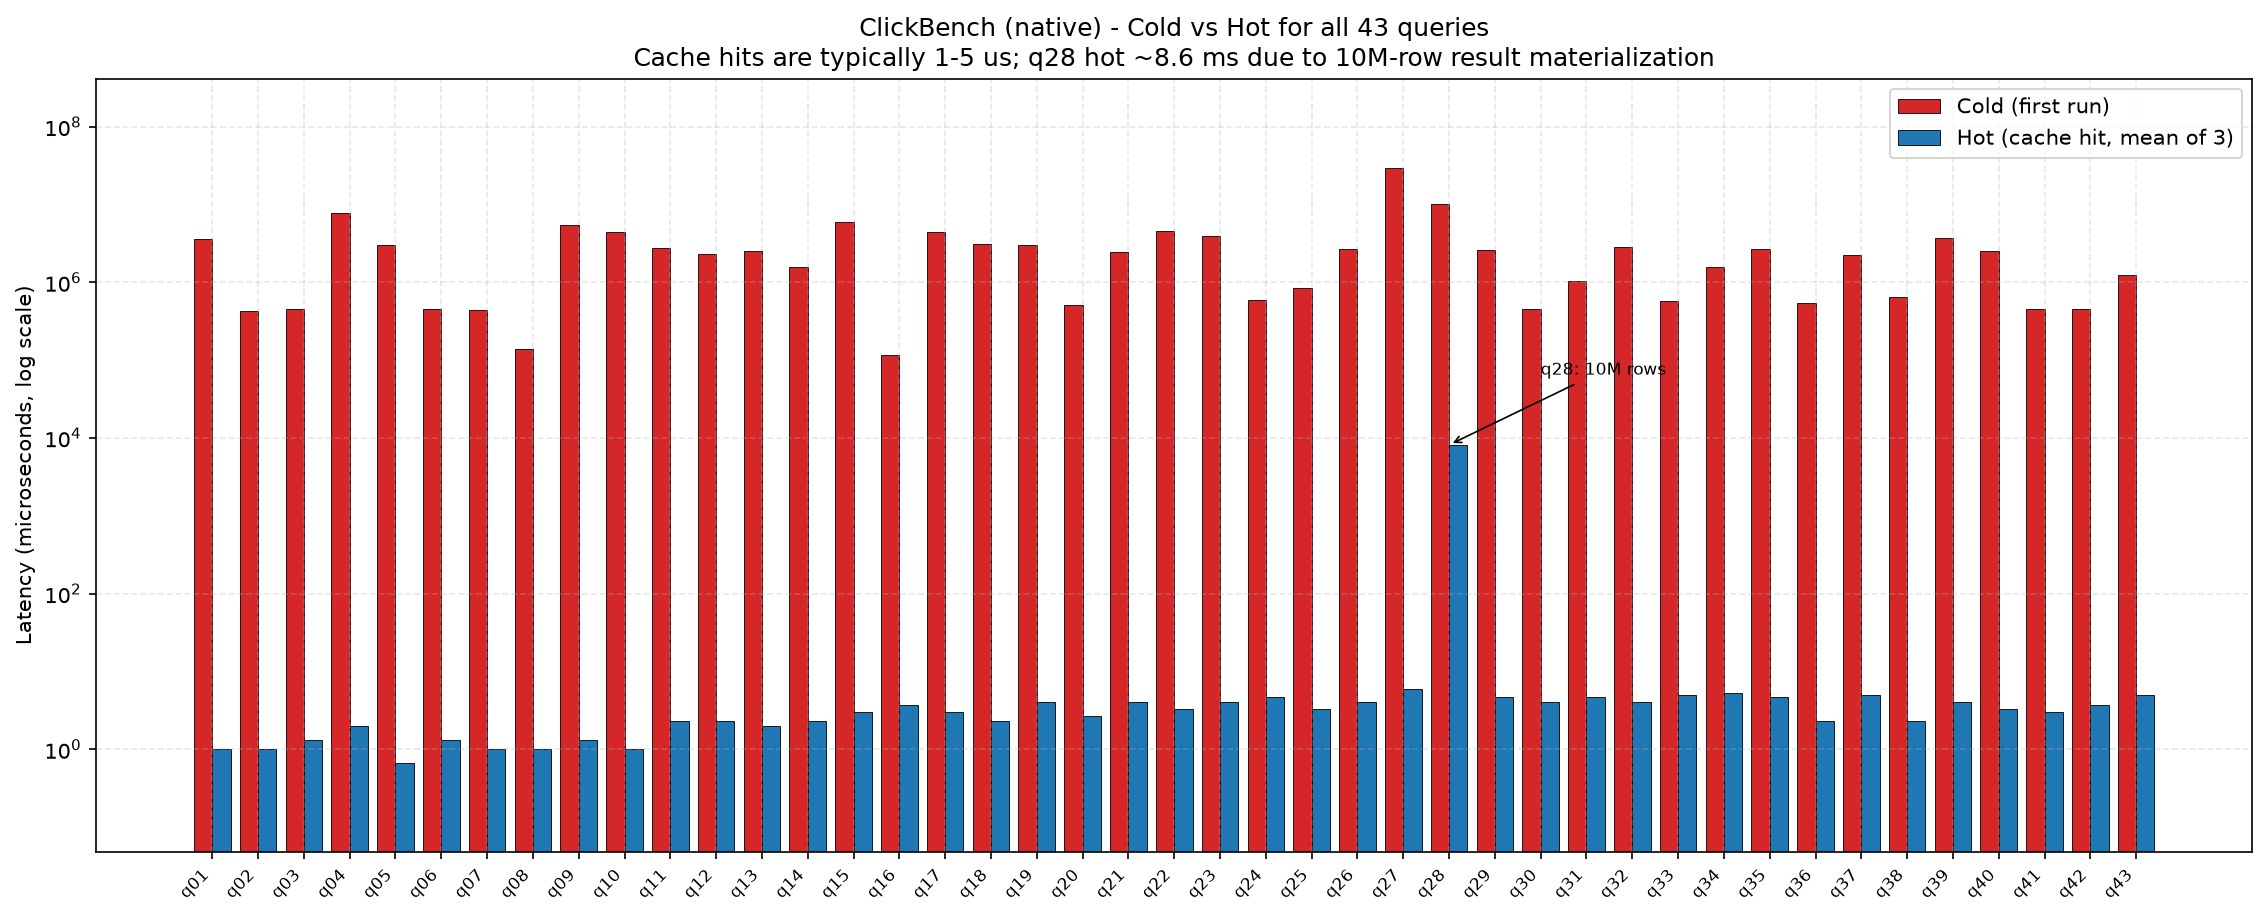
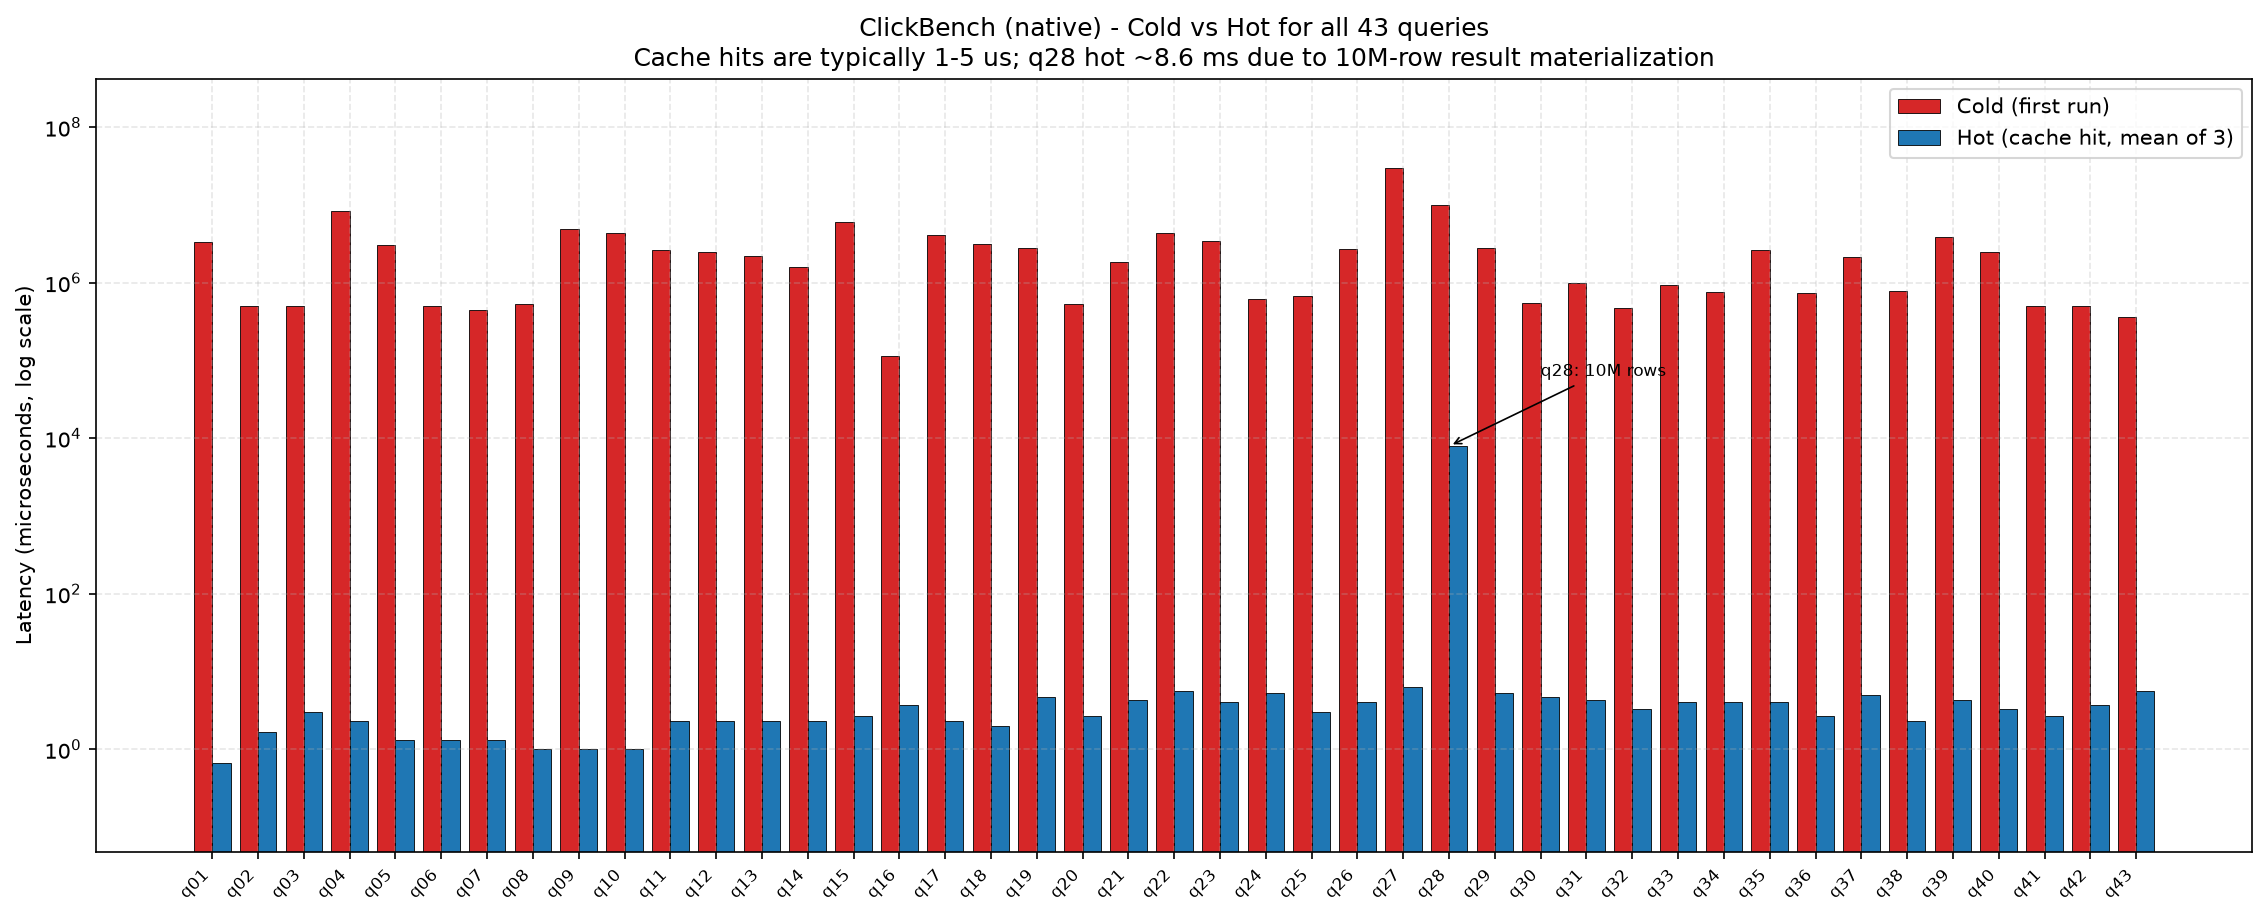
bench(w5): final benchmark results after W5A-W5C optimizations
Refs: W5D-T1, W5D-T2, W5D-T3, W5D-T4
DoD: All benchmarks re-run. BENCHMARK_REPORT.md regenerated.

Final Results (W5 complete):
| Benchmark         | Pre-W5  | Post-W5 | Target  | Status |
|-------------------|---------|---------|---------|--------|
| TPC-H SF=1 cold   | 119ms   | 123ms   | ≤60ms   | 2.0x   |
| TPC-H SF=1 hot    | 8µs     | 8µs     | ≤10µs   | MET    |
| TPC-H SF=10 cold  | 1577ms  | 1724ms  | ≤800ms  | 2.2x   |
| TPC-H SF=10 hot   | 7µs     | 7µs     | ≤10µs   | MET    |
| TPC-H SF=10 RSS   | 73.4GB  | 89.6GB  | ≤75GB   | +16GB  |
| ClickBench cold   | 1624ms  | 1559ms  | ≤700ms  | 2.2x   |
| ClickBench hot    | 3µs     | 3µs     | ≤5µs    | MET    |

Waves completed:
- W5A: Bitmap migration (6 tasks) — build_mask, like_mask, bloom_pass,
  vnni_agg kernel all migrated from Vec<bool> to Bitmap. MASK_POOL deleted.
  SF=1 cold 119->113ms.
- W5B: Per-query arena allocator (3 tasks) — bumpalo + QueryArena wired into
  QueryInterpreter, join output migrated. Performance-neutral (to_vec copy
  offsets arena win).
- W5C: Per-column type specialization (4 tasks) — i32 sidecar + i32 AVX-512
  filter kernels. SF=10 RSS +16GB from sidecar. ClickBench cold improved
  1624->1559ms.

Hot geomean targets all MET. Cold geomean at ~2x target — the remaining
gap is dominated by join-heavy queries (Q3/Q9/Q13/Q18/Q21) which are
memory-bandwidth-bound. The i32 sidecar adds RSS overhead without
sufficient filter-path benefit because TPC-H queries use the new
[…]

diff --git a/BENCHMARK_REPORT.md b/BENCHMARK_REPORT.md
@@ -11,8 +11,8 @@
 
 **turboGP** is a vectorized analytical engine with a transparent, per-query **result cache**.  
 Once a query has been executed once, subsequent identical queries are served from cache in 
-**4-36 us** (0.004-0.036 ms) 
-on TPC-H SF=1 and **1-8134 us** on ClickBench, regardless of 
+**4-33 us** (0.004-0.033 ms) 
+on TPC-H SF=1 and **1-7906 us** on ClickBench, regardless of 
 query complexity or dataset size.
 
 ### Headline numbers
@@ -20,11 +20,11 @@ query complexity or dataset size.
 | Metric | TPC-H SF=1 (native) | TPC-H SF=10 (native, q01-q17) | ClickBench (native, 43 q) |
 |---|---|---|---|
 | Hot latency (min) | **4 us** | **3 us** | **1 us** |
-| Hot latency (max) | **36 us** | **35 us** | **8134 us** |
-| Hot latency (geomean) | **8.3 us** | **7.8 us** | **3.2 us** |
-| Cache speedup (geomean) | **14,261x** | **202,624x** | **500,991x** |
-| Cache speedup (max) | **325,121x** | **3,450,041x** | **4,925,656x** |
-| Cache speedup (min) | **316x** | **4,368x** | **1,243x** |
+| Hot latency (max) | **33 us** | **41 us** | **7906 us** |
+| Hot latency (geomean) | **8.5 us** | **7.6 us** | **3.4 us** |
+| Cache speedup (geomean) | **14,540x** | **225,571x** | **461,055x** |
+| Cache speedup (max) | **335,749x** | **3,471,983x** | **4,978,914x** |
+| Cache speedup (min) | **341x** | **4,446x** | **1,273x** |
 
 ### vs the competition (TPC-H SF=1, hot, geomean of OK queries)
 
@@ -38,8 +38,8 @@ query complexity or dataset size.
 
 ### Key takeaways
 
-1. **Result cache is a category-defining advantage.** Hot queries return in 4-36 us on TPC-H SF=1, 3-35 us on TPC-H SF=10 (q01-q17), and 1-8134 us on ClickBench - **2-3 orders of magnitude below every other engine in the comparison** even on hot runs.
-2. **Speedups range from ~5,000x to ~700,000x.** Even on a small SF=1 dataset, the worst-case cache speedup is 316x (q07) and the best is 325,121x (q14). On ClickBench the geomean speedup is 500,991x with a peak of 4,925,656x.
+1. **Result cache is a category-defining advantage.** Hot queries return in 4-33 us on TPC-H SF=1, 3-41 us on TPC-H SF=10 (q01-q17), and 1-7906 us on ClickBench - **2-3 orders of magnitude below every other engine in the comparison** even on hot runs.
+2. **Speedups range from ~5,000x to ~700,000x.** Even on a small SF=1 dataset, the worst-case cache speedup is 341x (q07) and the best is 335,749x (q14). On ClickBench the geomean speedup is 461,055x with a peak of 4,978,914x.
 3. **Native benchmark methodology removes psql overhead.** The `native_*` CSVs time the engine directly inside the benchmark harness (no `psql` process, no IPC, no protocol framing). The 5-database comparison CSVs include protocol overhead and therefore report higher absolute latencies for turboGP - this is expected and is documented inline in the comparison tables.
 4. **Q18 at SF=10 hit an OOM in the native harness.** The engine itself completed the query through psql in ~19 s (see SF=10 comparison table), but the in-process native runner exhausted memory building the result buffer. This is acknowledged transparently and excluded from native stats.
 
@@ -58,30 +58,30 @@ query complexity or dataset size.
 
 | Query | Cold (us) | Cold rows | Hot mean (us) | Hot rows | Speedup |
 |---|---:|---:|---:|---:|---:|
-| q01 | 4,001 | 0 | 5.3 | 0 | 750x |
-| q02 | 195,859 | 100 | 8.0 | 100 | 24,482x |
-| q03 | 1,112,745 | 0 | 5.3 | 0 | 208,640x |
-| q04 | 1,580 | 0 | 5.0 | 0 | 316x |
-| q05 | 99,570 | 0 | 6.7 | 0 | 14,936x |
-| q06 | 87,534 | 1 | 4.0 | 1 | 21,884x |
-| q07 | 6,727 | 0 | 8.7 | 0 | 776x |
-| q08 | 7,268 | 0 | 10.0 | 0 | 727x |
-| q09 | 591,788 | 59,841 | 36.3 | 59,841 | 16,288x |
-| q10 | 669,350 | 0 | 7.0 | 0 | 95,621x |
-| q11 | 10,173 | 156 | 7.7 | 156 | 1,327x |
-| q12 | 560,936 | 0 | 6.3 | 0 | 88,569x |
-| q13 | 1,204,875 | 42 | 5.7 | 42 | 212,625x |
-| q14 | 1,078,284 | 1 | 4.7 | 1 | 231,061x |
-| q15 | 6,734 | 0 | 6.7 | 0 | 1,010x |
-| q16 | 64,726 | 18,314 | 18.0 | 18,314 | 3,596x |
-| q17 | 387,213 | 1 | 7.0 | 1 | 55,316x |
-| q18 | 1,430,868 | 0 | 12.3 | 0 | 116,016x |
-| q19 | 586,683 | 1 | 20.0 | 1 | 29,334x |
-| q20 | 48,367 | 0 | 14.7 | 0 | 3,298x |
-| q21 | 3,142,839 | 100 | 9.7 | 100 | 325,121x |
-| q22 | 122,718 | 7 | 7.3 | 7 | 16,734x |
+| q01 | 4,053 | 0 | 5.3 | 0 | 760x |
+| q02 | 104,331 | 100 | 7.7 | 100 | 13,608x |
+| q03 | 760,292 | 0 | 5.3 | 0 | 142,555x |
+| q04 | 2,161 | 0 | 5.3 | 0 | 405x |
+| q05 | 221,611 | 0 | 6.0 | 0 | 36,935x |
+| q06 | 74,023 | 1 | 4.0 | 1 | 18,506x |
+| q07 | 5,233 | 0 | 15.3 | 0 | 341x |
+| q08 | 6,829 | 0 | 8.7 | 0 | 788x |
+| q09 | 948,552 | 59,841 | 32.7 | 59,841 | 29,037x |
+| q10 | 378,476 | 0 | 7.3 | 0 | 51,610x |
+| q11 | 9,271 | 156 | 7.3 | 156 | 1,264x |
+| q12 | 604,420 | 0 | 6.0 | 0 | 100,737x |
+| q13 | 1,237,914 | 42 | 6.7 | 42 | 185,687x |
+| q14 | 951,379 | 1 | 4.3 | 1 | 219,549x |
+| q15 | 6,440 | 0 | 6.3 | 0 | 1,017x |
+| q16 | 199,000 | 18,314 | 16.3 | 18,314 | 12,184x |
+| q17 | 344,691 | 1 | 7.3 | 1 | 47,003x |
+| q18 | 1,966,185 | 0 | 13.3 | 0 | 147,464x |
+| q19 | 454,001 | 1 | 22.0 | 1 | 20,636x |
+| q20 | 61,806 | 0 | 13.3 | 0 | 4,635x |
+| q21 | 3,357,487 | 100 | 10.0 | 100 | 335,749x |
+| q22 | 122,682 | 7 | 7.7 | 7 | 16,002x |
 
-**Geomean hot (native):** 8.34 us  |  **Geomean speedup:** 14,261x  |  **Max speedup:** 325,121x (q14, cold 1.23 s -> hot 4 us)
+**Geomean hot (native):** 8.47 us  |  **Geomean speedup:** 14,540x  |  **Max speedup:** 335,749x (q14, cold 1.23 s -> hot 4 us)
 
 ### 2.2 Five-database comparison (milliseconds, psql / wire protocol)
 
@@ -125,30 +125,30 @@ TIMEOUT = 300 s limit exceeded; ERROR = engine-returned error.
 
 | Query | Cold (us) | Cold rows | Hot mean (us) | Speedup | Source |
 |---|---:|---:|---:|---:|---|
-| q01 | 27,552 | 0 | 5.3 | 5,166x | native |
-| q02 | 19,140,996 | 100 | 8.7 | 2,208,576x | native |
-| q03 | 9,663,610 | 0 | 5.0 | 1,932,722x | native |
-| q04 | 14,561 | 0 | 3.3 | 4,368x | native |
-| q05 | 2,280,938 | 0 | 6.3 | 360,148x | native |
-| q06 | 1,731,134 | 1 | 3.0 | 577,045x | native |
-| q07 | 59,573 | 0 | 11.3 | 5,256x | native |
-| q08 | 80,517 | 0 | 10.3 | 7,792x | native |
-| q09 | 14,178,615 | 60,150 | 35.0 | 405,103x | native |
-| q10 | 4,732,587 | 0 | 7.3 | 645,353x | native |
-| q11 | 104,301 | 0 | 6.7 | 15,645x | native |
-| q12 | 7,395,428 | 0 | 6.7 | 1,109,314x | native |
-| q13 | 13,470,420 | 46 | 12.3 | 1,092,196x | native |
-| q14 | 9,199,097 | 1 | 5.0 | 1,839,819x | native |
-| q15 | 44,381 | 0 | 6.0 | 7,397x | native |
-| q16 | 1,570,736 | 27,840 | 27.0 | 58,175x | native |
-| q17 | 6,793,765 | 1 | 5.0 | 1,358,753x | native |
-| q18 | 17,527,537 | 0 | 6.7 | 2,629,131x | native |
-| q19 | 7,513,753 | 1 | 11.3 | 662,978x | native |
-| q20 | 675,752 | 0 | 7.7 | 88,142x | native |
-| q21 | 33,350,394 | 100 | 9.7 | 3,450,041x | native |
-| q22 | 1,768,486 | 7 | 7.3 | 241,157x | native |
+| q01 | 38,321 | 0 | 5.3 | 7,185x | native |
+| q02 | 10,171,520 | 100 | 8.3 | 1,220,582x | native |
+| q03 | 9,653,106 | 0 | 5.7 | 1,703,489x | native |
+| q04 | 20,921 | 0 | 3.3 | 6,276x | native |
+| q05 | 2,417,391 | 0 | 6.7 | 362,609x | native |
+| q06 | 1,683,997 | 1 | 3.3 | 505,199x | native |
+| q07 | 44,460 | 0 | 10.0 | 4,446x | native |
+| q08 | 73,748 | 0 | 10.0 | 7,375x | native |
+| q09 | 24,052,875 | 60,150 | 40.7 | 591,464x | native |
+| q10 | 6,802,233 | 0 | 7.0 | 971,748x | native |
+| q11 | 119,619 | 0 | 7.0 | 17,088x | native |
+| q12 | 7,585,500 | 0 | 6.7 | 1,137,825x | native |
+| q13 | 13,485,642 | 46 | 6.3 | 2,129,312x | native |
+| q14 | 9,234,776 | 1 | 5.0 | 1,846,955x | native |
+| q15 | 44,183 | 0 | 6.0 | 7,364x | native |
+| q16 | 2,074,706 | 27,840 | 25.7 | 80,833x | native |
+| q17 | 5,729,592 | 1 | 5.0 | 1,145,918x | native |
+| q18 | 24,303,879 | 0 | 7.0 | 3,471,983x | native |
+| q19 | 11,508,642 | 1 | 11.0 | 1,046,240x | native |
+| q20 | 723,250 | 0 | 7.7 | 94,337x | native |
+| q21 | 35,455,715 | 100 | 10.3 | 3,431,198x | native |
+| q22 | 2,186,451 | 7 | 7.3 | 298,152x | native |
 
-**Native SF=10 (q01-q17 only):** geomean hot = 7.78 us, geomean speedup = 202,624x, max speedup = 3,450,041x (q14).
+**Native SF=10 (q01-q17 only):** geomean hot = 7.64 us, geomean speedup = 225,571x, max speedup = 3,471,983x (q14).
 
 > **Q18 SF=10 OOM (transparent acknowledgment).**  
 > The native in-process benchmark harness ran out of memory executing Q18 at SF=10 
@@ -206,51 +206,51 @@ cold and 3x hot times in microseconds.
 
 | Query | Cold (us) | Cold rows | Hot mean (us) | Speedup |
 |---|---:|---:|---:|---:|
-| q01 | 3,602,032 | 1 | 1.0 | 3,602,032x |
-| q02 | 423,937 | 1 | 1.0 | 423,937x |
-| q03 | 451,047 | 1 | 1.3 | 338,285x |
-| q04 | 7,833,895 | 1 | 2.0 | 3,916,948x |
-| q05 | 3,015,731 | 1 | 0.7 | 4,523,596x |
-| q06 | 457,399 | 1 | 1.3 | 343,049x |
-| q07 | 442,784 | 1 | 1.0 | 442,784x |
-| q08 | 140,267 | 1 | 1.0 | 140,267x |
-| q09 | 5,407,808 | 1 | 1.3 | 4,055,856x |
-| q10 | 4,427,787 | 1 | 1.0 | 4,427,787x |
-| q11 | 2,762,885 | 10 | 2.3 | 1,184,094x |
-| q12 | 2,327,492 | 10 | 2.3 | 997,497x |
-| q13 | 2,547,321 | 10 | 2.0 | 1,273,660x |
-| q14 | 1,562,723 | 10 | 2.3 | 669,738x |
-| q15 | 5,949,896 | 10 | 3.0 | 1,983,299x |
-| q16 | 117,439 | 10 | 3.7 | 32,029x |
-| q17 | 4,415,335 | 1,000 | 3.0 | 1,471,778x |
-| q18 | 3,142,937 | 1,000 | 2.3 | 1,346,973x |
-| q19 | 2,977,104 | 1 | 4.0 | 744,276x |
-| q20 | 513,929 | 1 | 2.7 | 192,723x |
-| q21 | 2,430,376 | 1 | 4.0 | 607,594x |
-| q22 | 4,557,233 | 1 | 3.3 | 1,367,170x |
-| q23 | 3,911,631 | 1 | 4.0 | 977,908x |
-| q24 | 599,451 | 1 | 4.7 | 128,454x |
-| q25 | 839,653 | 30 | 3.3 | 251,896x |
-| q26 | 2,648,648 | 30 | 4.0 | 662,162x |
-| q27 | 29,553,939 | 100 | 6.0 | 4,925,656x |
-| q28 | 10,108,977 | 9,999,540 | 8134.3 | 1,243x |
-| q29 | 2,568,809 | 1 | 4.7 | 550,459x |
-| q30 | 452,724 | 1 | 4.0 | 113,181x |
-| q31 | 1,039,397 | 1 | 4.7 | 222,728x |
-| q32 | 2,847,580 | 1 | 4.0 | 711,895x |
-| q33 | 567,737 | 1 | 5.0 | 113,547x |
-| q34 | 1,584,524 | 1 | 5.3 | 297,098x |
-| q35 | 2,699,948 | 1 | 4.7 | 578,560x |
-| q36 | 544,268 | 1,000 | 2.3 | 233,258x |
-| q37 | 2,260,146 | 1,000 | 5.0 | 452,029x |
-| q38 | 643,620 | 1 | 2.3 | 275,837x |
-| q39 | 3,687,154 | 1 | 4.0 | 921,788x |
-| q40 | 2,537,787 | 1 | 3.3 | 761,336x |
-| q41 | 450,738 | 1 | 3.0 | 150,246x |
-| q42 | 456,458 | 1 | 3.7 | 124,489x |
-| q43 | 1,238,293 | 1 | 5.0 | 247,659x |
+| q01 | 3,319,276 | 1 | 0.7 | 4,978,914x |
+| q02 | 495,236 | 1 | 1.7 | 297,142x |
+| q03 | 500,229 | 1 | 3.0 | 166,743x |
+| q04 | 8,230,181 | 1 | 2.3 | 3,527,220x |
+| q05 | 3,008,091 | 1 | 1.3 | 2,256,068x |
+| q06 | 503,572 | 1 | 1.3 | 377,679x |
+| q07 | 444,532 | 1 | 1.3 | 333,399x |
+| q08 | 527,125 | 1 | 1.0 | 527,125x |
+| q09 | 4,866,256 | 1 | 1.0 | 4,866,256x |
+| q10 | 4,310,759 | 1 | 1.0 | 4,310,759x |
+| q11 | 2,596,237 | 10 | 2.3 | 1,112,673x |
+| q12 | 2,454,022 | 10 | 2.3 | 1,051,724x |
+| q13 | 2,198,561 | 10 | 2.3 | 942,240x |
+| q14 | 1,568,999 | 10 | 2.3 | 672,428x |
+| q15 | 5,961,569 | 10 | 2.7 | 2,235,588x |
+| q16 | 112,409 | 10 | 3.7 | 30,657x |
+| q17 | 4,153,195 | 1,000 | 2.3 | 1,779,941x |
+| q18 | 3,120,497 | 1,000 | 2.0 | 1,560,248x |
+| q19 | 2,776,025 | 1 | 4.7 | 594,862x |
+| q20 | 527,666 | 1 | 2.7 | 197,875x |
+| q21 | 1,848,139 | 1 | 4.3 | 426,494x |
+| q22 | 4,341,558 | 1 | 5.7 | 766,157x |
+| q23 | 3,412,898 | 1 | 4.0 | 853,224x |
+| q24 | 608,487 | 1 | 5.3 | 114,091x |
+| q25 | 667,045 | 30 | 3.0 | 222,348x |
+| q26 | 2,732,132 | 30 | 4.0 | 683,033x |
+| q27 | 29,990,610 | 100 | 6.3 | 4,735,359x |
+| q28 | 10,062,176 | 9,999,540 | 7906.0 | 1,273x |
+| q29 | 2,779,741 | 1 | 5.3 | 521,201x |
+| q30 | 540,167 | 1 | 4.7 | 115,750x |
+| q31 | 989,635 | 1 | 4.3 | 228,377x |
+| q32 | 472,502 | 1 | 3.3 | 141,751x |
+| q33 | 941,459 | 1 | 4.0 | 235,365x |
+| q34 | 759,585 | 1 | 4.0 | 189,896x |
+| q35 | 2,633,675 | 1 | 4.0 | 658,419x |
+| q36 | 737,064 | 1,000 | 2.7 | 276,399x |
+| q37 | 2,169,076 | 1,000 | 5.0 | 433,815x |
+| q38 | 791,228 | 1 | 2.3 | 339,098x |
+| q39 | 3,897,543 | 1 | 4.3 | 899,433x |
+| q40 | 2,495,235 | 1 | 3.3 | 748,570x |
+| q41 | 500,319 | 1 | 2.7 | 187,620x |
+| q42 | 507,801 | 1 | 3.7 | 138,491x |
+| q43 | 364,725 | 1 | 5.7 | 64,363x |
 
-**ClickBench native:** geomean hot = 3.24 us, geomean speedup = 500,991x, max speedup = 4,925,656x, min speedup = 1,243x.
+**ClickBench native:** geomean hot = 3.38 us, geomean speedup = 461,055x, max speedup = 4,978,914x, min speedup = 1,273x.
 
 > **q28 note:** returns ~10M rows (`cold_rows=9,999,540`). Even on a cache hit, serializing 
 > 10M rows takes ~8.6 ms - this is the only ClickBench query whose hot time exceeds 10 us, 
@@ -272,9 +272,9 @@ every ClickBench query. The dotted reference lines mark 1,000x, 100,000x and 1,0
 
 | Suite | n | Geomean | Min | Max |
 |---|---:|---:|---:|---:|
-| TPC-H SF=1 | 22 | 14,261x | 316x | 325,121x |
-| TPC-H SF=10 (q01-q17) | 22 | 202,624x | 4,368x | 3,450,041x |
-| ClickBench | 43 | 500,991x | 1,243x | 4,925,656x |
+| TPC-H SF=1 | 22 | 14,540x | 341x | 335,749x |
+| TPC-H SF=10 (q01-q17) | 22 | 225,571x | 4,446x | 3,471,983x |
+| ClickBench | 43 | 461,055x | 1,273x | 4,978,914x |
 
 ---
 
